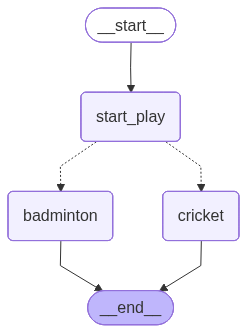
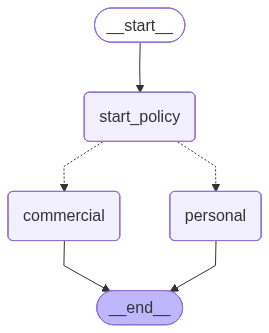
add agentic ai with langgraph

diff --git a/LangGraph/graph.py b/LangGraph/graph.py
@@ -16,28 +16,28 @@ class State(TypedDict):
     graph_info: str
 
 # Node-1
-def start_play(state: State):
+def start_policy(state: State):
     print("Start play Node has been called")
     return {"graph_info":state["graph_info"] + "I'm palnning to play"}
 
 # Node-2
-def cricket(state:State):
-    print("criket")
-    return {"graph_info":state["graph_info"] + "cricket"}
+def personal(state:State):
+    print("personal")
+    return {"graph_info":state["graph_info"] + "personal"}
 
 # Node-3
-def badminton(state: State):
-    print("badminton")
-    return {"graph_info": state["graph_info"] + "badminton"}
+def commercial(state: State):
+    print("commercial")
+    return {"graph_info": state["graph_info"] + "commercial"}
 
 import random
 from typing import Literal
 
-def random_play(state:State) -> Literal['cricket', 'badminton']:
+def random_play(state:State) -> Literal['personal', 'commercial']:
     if random.random >0.5:
-        return 'badminton'
+        return 'commercial'
     else:
-        return 'cricket'
+        return 'personal'
     
 
 from IPython.display import Image,display # Pip3 install IPython
@@ -48,16 +48,16 @@ graph = StateGraph(State)
 
 
 # Add all the Nodes
-graph.add_node("start_play", start_play)
-graph.add_node("cricket", cricket)
-graph.add_node("badminton", badminton)
+graph.add_node("start_policy", start_policy)
+graph.add_node("personal", personal)
+graph.add_node("commercial", commercial)
 
 
 ## Schedule the flow of the graph
-graph.add_edge(START, "start_play")
-graph.add_conditional_edges("start_play", random_play)
-graph.add_edge("cricket", END)
-graph.add_edge("badminton", END)
+graph.add_edge(START, "start_policy")
+graph.add_conditional_edges("start_policy", random_play)
+graph.add_edge("personal", END)
+graph.add_edge("commercial", END)
 
 
 
